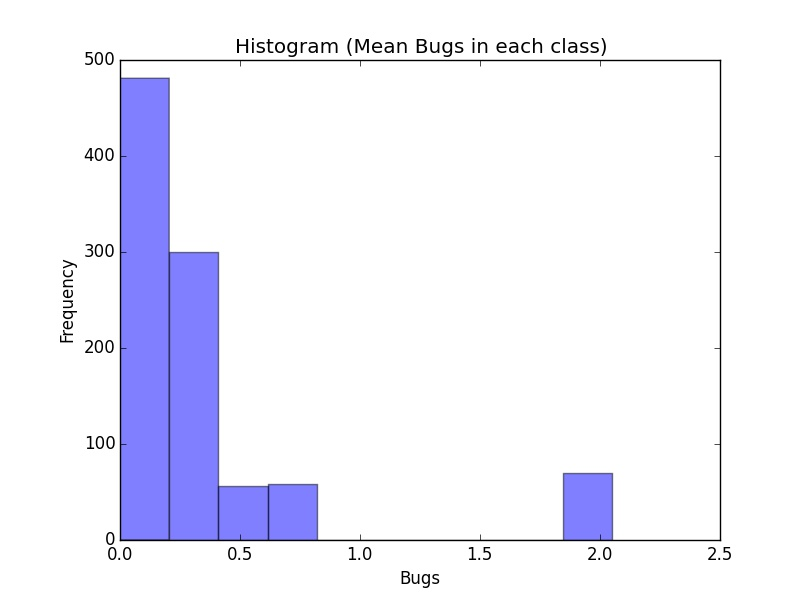
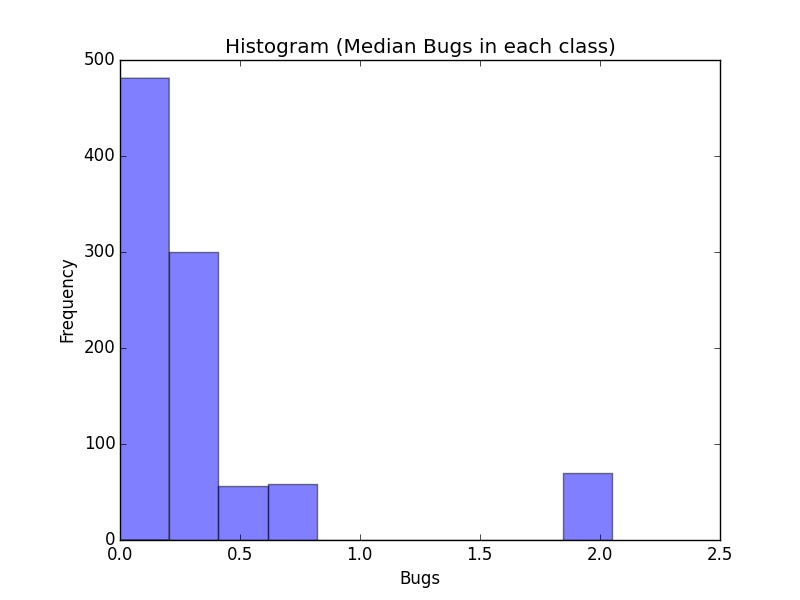
More pretty graphs :)

Changed region(s): [[0.2812, 0.06, 0.7812, 0.09]]

diff --git a/Defects/dectree.py b/Defects/dectree.py
@@ -180,7 +180,7 @@ def saveAs(x, num_bins):
  # add a 'best fit' line
  plt.xlabel('Bugs')
  plt.ylabel('Frequency')
- plt.title(r'Histogram (Mean Bugs in each class)')
+ plt.title(r'Histogram (Median Bugs in each class)')
 
  # Tweak spacing to prevent clipping of ylabel
  plt.subplots_adjust(left = 0.15)
@@ -196,7 +196,7 @@ def _tdivPrec(dir = 'camel/'):
   train = ['ant-1.3.csv', 'ant-1.4.csv', 'ant-1.5.csv']
   test = ['ant-1.6.csv']
  else:
-  train = ['camel-1.2.csv', 'camel-1.4.csv']  # , 'camel-1.4.csv']
+  train = ['camel-1.2.csv', 'camel-1.0.csv', 'camel-1.4.csv']  # , 'camel-1.4.csv']
   test = ['camel-1.6.csv']
  rseed(1)
  makeaModel = makeAModel()
